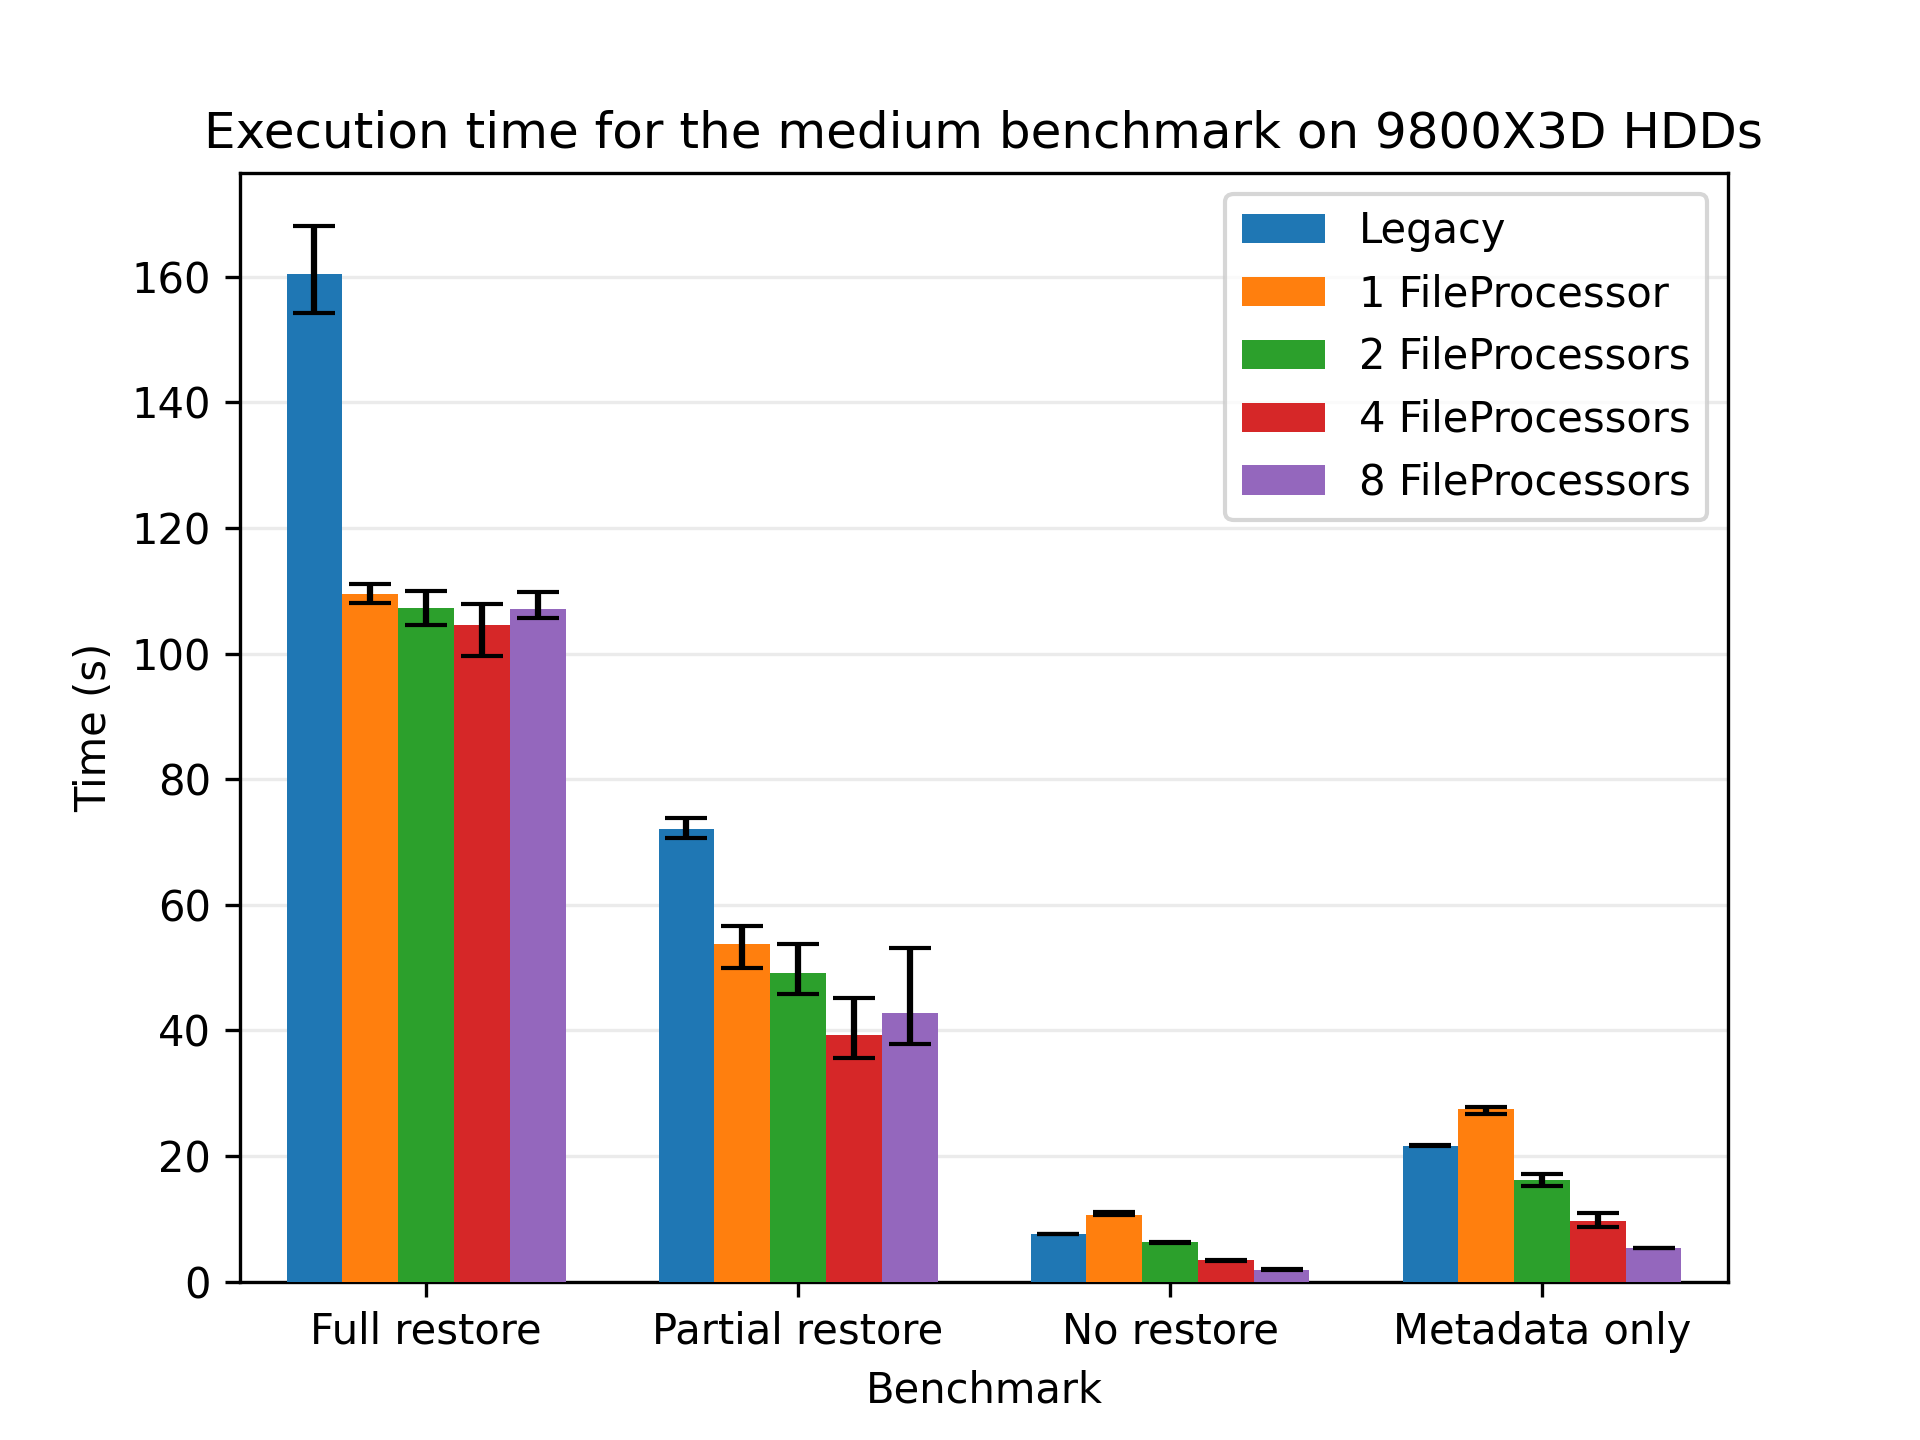
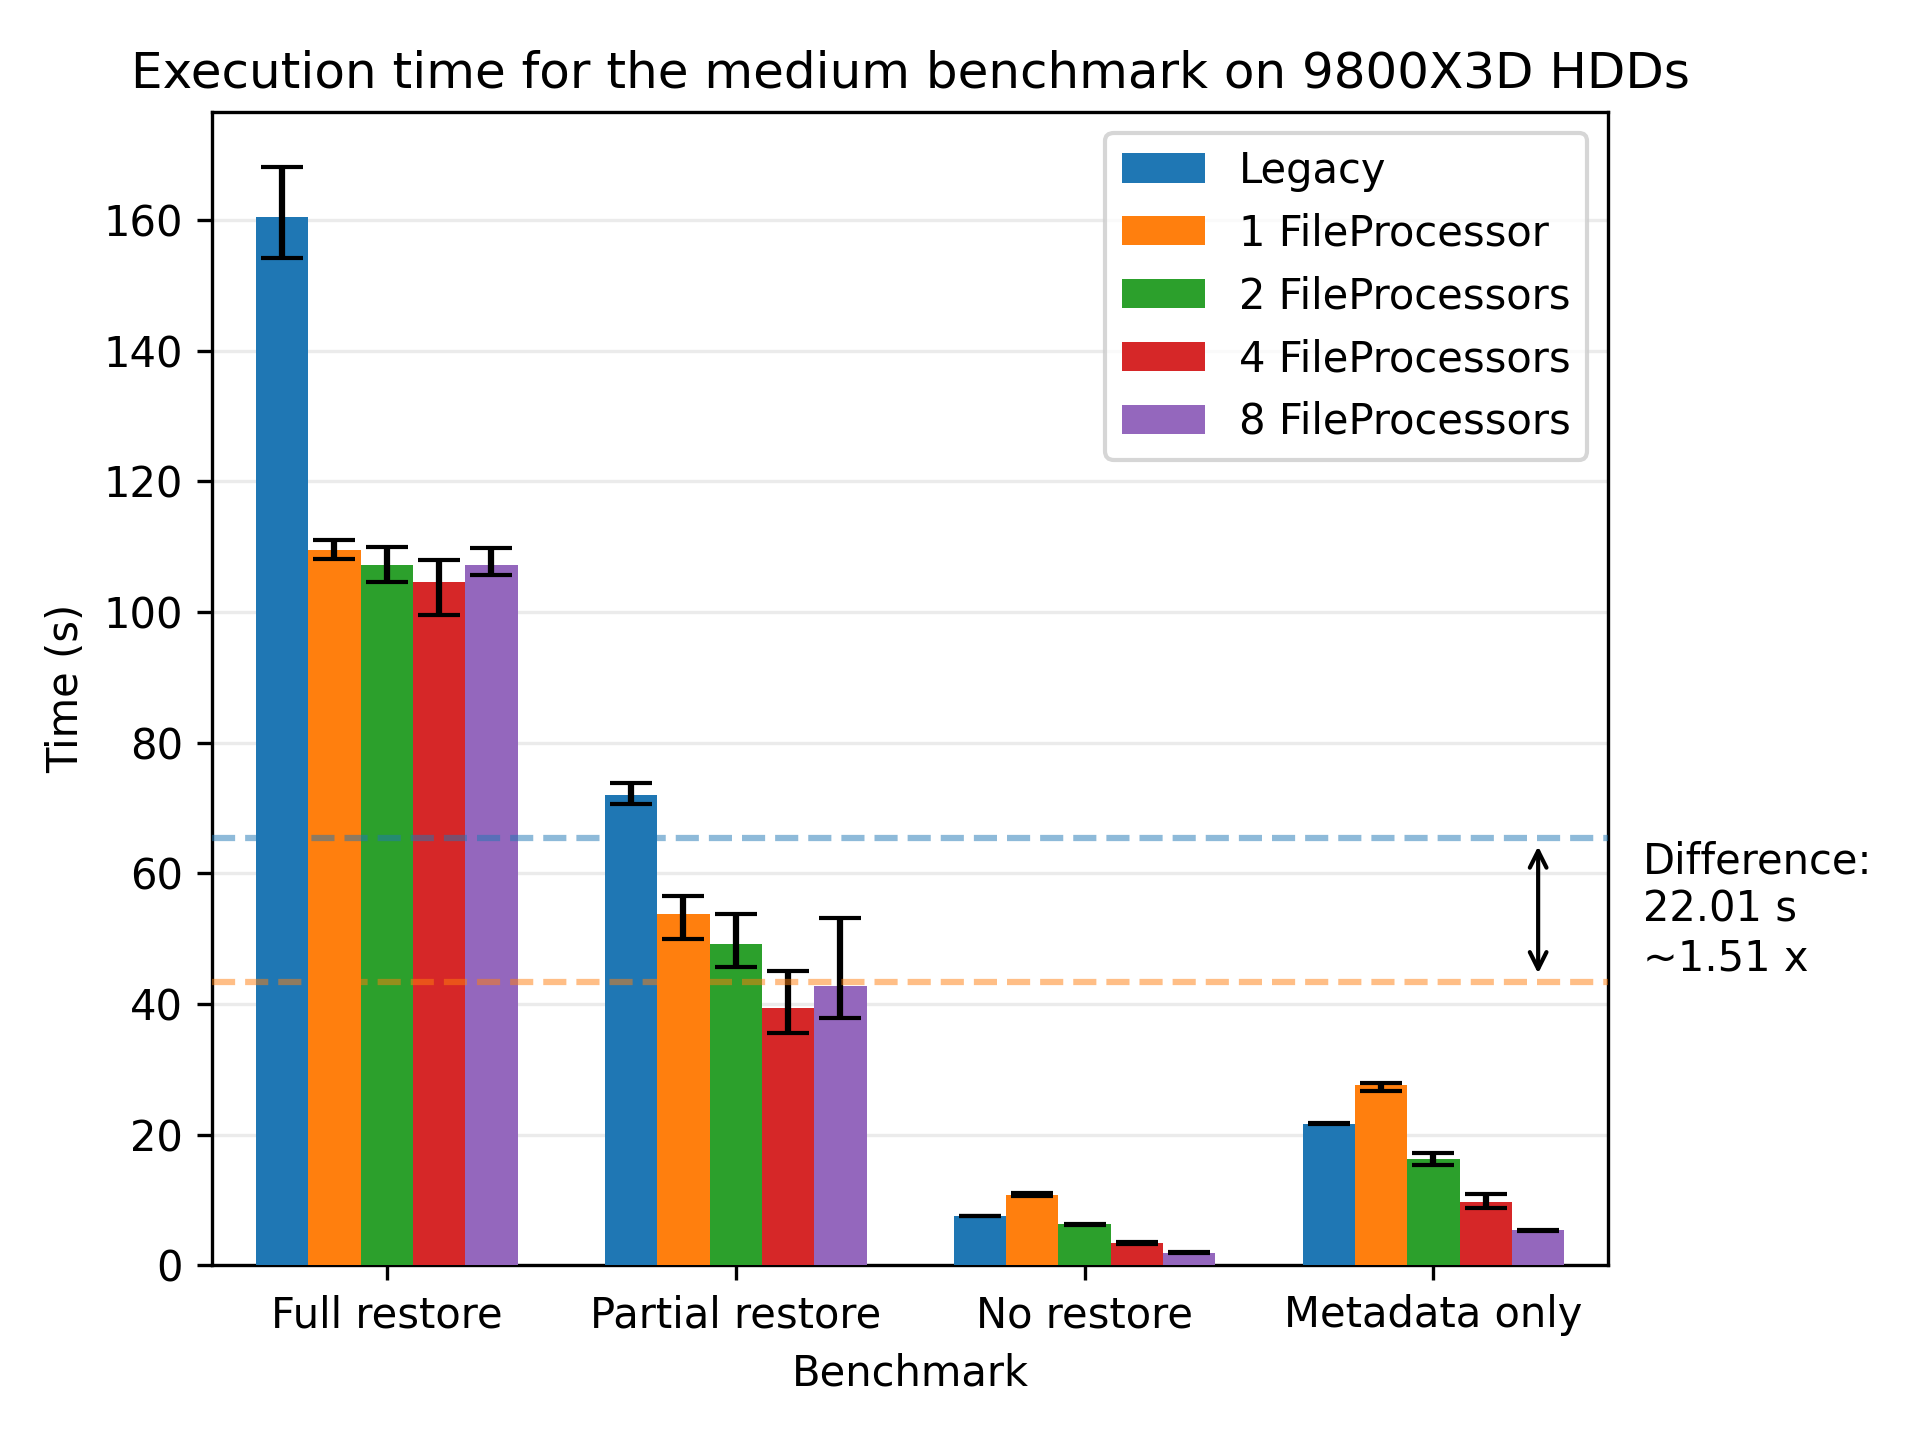
Added difference highlight to the HDD benchmark plot

diff --git a/WIP-restore/restore_opt.md b/WIP-restore/restore_opt.md
@@ -4,9 +4,9 @@ This blog post describes the reworked restore flow.
 
 It was originally merged in [PR #5728](https://github.com/duplicati/duplicati/pull/5728), with bugfixes in [PR #5840](https://github.com/duplicati/duplicati/pull/5840), [PR #5842](https://github.com/duplicati/duplicati/pull/5842), [PR #5886](https://github.com/duplicati/duplicati/pull/5886), [PR #5958](https://github.com/duplicati/duplicati/pull/5958), [PR #6026](https://github.com/duplicati/duplicati/pull/6026), and with additional optimizations in [PR #5983](https://github.com/duplicati/duplicati/pull/5983), [PR #5991](https://github.com/duplicati/duplicati/pull/5991), [PR #6028](https://github.com/duplicati/duplicati/pull/6028).
 
-It has been part of the canary releases since [Duplicati 2.1.0.103](https://github.com/duplicati/duplicati/releases/tag/v2.1.0.103_canary_2024-12-21) onwards, with the latest version being [Duplicati 2.1.0.111](https://github.com/duplicati/duplicati/releases/tag/v2.1.0.111_canary_TODO), which includes all of the bugfixes and optimizations mentioned above.
+It has been part of the canary releases since [Duplicati 2.1.0.103](https://github.com/duplicati/duplicati/releases/tag/v2.1.0.103_canary_2024-12-21) onwards, with the latest version being [Duplicati 2.1.0.111](https://github.com/duplicati/duplicati/releases/tag/v2.1.0.111_canary_2025-03-15), which includes all of the bugfixes and optimizations mentioned above.
 
-The plots generated in this script can be reproduced by running the [benchmark](https://github.com/carljohnsen/duplicati-blogpost/tree/main/WIP-restore/benchmark) and the corresponding [plotting notebook](https://github.com/carljohnsen/duplicati-blogpost/blob/main/WIP-restore/benchmark/plotting.ipynb). TODO update the links post publishing.
+The plots generated in this script can be reproduced by running the [benchmark](https://github.com/carljohnsen/duplicati-blogpost/tree/main/WIP-restore/benchmark) and the corresponding [plotting notebook](https://github.com/carljohnsen/duplicati-blogpost/blob/main/WIP-restore/benchmark/plotting.ipynb).
 
 If any issues arise with the new flow, please report them here on the forum and the legacy flow can still be used instead by supplying the option `--restore-legacy=true`. The legacy flow is also more memory efficient, so if you're running into memory or disk space issues, you can try the legacy flow.
 
@@ -399,13 +399,13 @@ A major benefit is that the post verification step has been removed as it's now 
 
 The whole network shuts down starting at the filelister, once it runs out of files to request.
 Then each fileprocessor shuts down when trying to request a file from the filelister, which is no longer available.
-Once all fileprocessors have shut down, the block cache signals the volume cache to shut down, which in turn shuts downn the volume downloaders, volume decryptors, and volume decompressors.
+Once all fileprocessors have shut down, the block cache signals the volume cache to shut down, which in turn shuts down the volume downloaders, volume decryptors, and volume decompressors.
 Once that subnetwork has shut down, the block cache shuts down, which is the final process to shut down.
 
 This new flow alleviates the problems of the legacy flow, while retaining most of its benefits:
 
 - While the steps are no longer performed in a clearly separated sequence, each step is still separated into a process allowing for a clear separation of concerns.
-- The steps are executed concurrently, allowing for overlapping execution and full utilization of system resources.
+- The steps are executed concurrently, allowing for overlapping execution and better utilization of system resources.
 - The block writes are sequential to a file, leading to a more disk-friendly access pattern per file written.
 - The cache system ensures that each block and volume is only downloaded, decrypted, and decompressed once
   (assuming that cache entries aren't evicted too early due to memory limitations).
@@ -413,9 +413,18 @@ This new flow alleviates the problems of the legacy flow, while retaining most o
 
 It has the following drawbacks:
 
-- The flow is more complex, as it is now a network of processes that communicate through channels. This can, in the worst case, lead to deadlocks where the system is stalled without any progression.
-- The cache system needs to be managed, which can be a complex task, and that entails increased resource consumption.
-- The flow is less stable, as it is a new implementation that hasn't been tested as thoroughly as the legacy flow.
+- The flow is more complex, as it is now a network of processes that communicate through channels. This can, in the worst case, lead to deadlocks where the system is stalled without any progression. Hewever, we have added timeout detection that will warn the user if the system is seemingly stalled. We have also tried to ensure that any error will terminate the network, so the system will not be stuck indefinitely.
+- The cache system needs to be managed, which can be a complex task, and that entails increased resource consumption. However, in our testing, most of the work spent was not managing cache, but actual work; downloading, decrypting, decompressing, and patching blocks.
+- The flow is less stable, as it is a new implementation that hasn't been tested as thoroughly as the legacy flow. Given more time and use, confidence in the new flow will increase.
+
+## Additional optimizations
+
+In addition to the new flow, we've added several optimizations to the restore flow:
+
+- **Preallocation**: The target files can be preallocated, hinting the size to the filesystem. This can benefit the restore speed on some systems, as it hints the size to the filesystem, potentially allowing for more efficient file allocation (e.g. less fragmentation).
+- **Parallel downloads**: The BackendManager now supports parallel downloads, allowing for multiple volumes to be downloaded at the same time. This can increase the throughput of the restore operation, especially on high-speed connections. In the benchmarks of this post, the backend was a local filesystem, so this optimization really sped up the restore operation.
+- **Parallel database connections**: With respect to the backup database, the restore operation is a non-intrusive operation, where the database is only being read from. As such, we can open multiple connections to the database, allowing for faster access to the database.
+- **Memory pool**: The memory pool is a shared memory pool that is used to allocate memory for the blocks. Rather than using a new memory allocation for each block, the memory pool is used to allocate memory for the blocks, which is returned after use. This alleviates garbage collection penalties as a result of many small memory allocations.
 
 ## Tunable parameters
 
@@ -432,6 +441,7 @@ This new flow introduces several tunable parameters to control parallelism, the 
 - `--restore-volume-decompressors=n_cores/2`: The number of volume decompressors to run in parallel. The default is half the number of cores available on the machine.
 - `--restore-volume-decryptors=n_cores/2`: The number of volume decryptors to run in parallel. The default is half the number of cores available on the machine.
 - `--restore-volume-downloaders=n_cores/2`: The number of volume downloaders to run in parallel. The default is half the number of cores available on the machine.
+- `--restore-channel-buffer-size=8`: The size of the channel buffer. The default is 8. This can be increased to allow for more messages to be in flight, potentially increasing the throughput of the restore operation at the cost of increased memory usage.
 
 ### General
 
@@ -451,12 +461,11 @@ We perform the following tests:
 
 Each test will be performed with the new flow and the legacy flow, with 10 measured runs. For each configuration, the best and worst times are discarded and the reported times are plotted with error bars. The benchmarks are (unless specified otherwise) performed on local storage, as we're focusing on the execution of the restore process. For Windows we've disabled Windows Defender real-time protection as this does not go well with a disk-stressing benchmark. We'll be using three datasets:
 
-| Dataset        |      Files |   Size | Max file size | Duplication rate |
-| -------------- | ---------: | -----: | ------------: | ---------------: |
-| Small dataset  |      1,000 |   1 GB |         10 MB |              20% |
-| Medium dataset |     10,000 |  10 GB |        100 MB |              30% |
-| Large dataset  |  1,000,000 | 100 GB |        100 MB |              40% |
-| Huge dataset   | 10,000,000 |  10 TB |          1 GB |              25% |
+| Dataset        |     Files |   Size | Max file size | Duplication rate |
+| -------------- | --------: | -----: | ------------: | ---------------: |
+| Small dataset  |     1,000 |   1 GB |         10 MB |              20% |
+| Medium dataset |    10,000 |  10 GB |        100 MB |              30% |
+| Large dataset  | 1,000,000 | 100 GB |        100 MB |              40% |
 
 'Files' is the target number of files, 'Size' is the target size, and 'Max file size' is the maximum file size a single file can have. Each of these values are targets, which means that they'll be approximate. They will however be deterministic across the runs and machines, as they're using the same seed during generation. Duplication rate is the percentage of blocks that already exist in another file. This is implemented by having the files being filled with 0s.
 
@@ -467,6 +476,12 @@ We'll start by presenting the general results of the new restore flow compared t
 ![Results for the small dataset on MacBook](benchmark/figures/macbook_small.png)
 
 Here we see a significant speedup for the new restore flow compared to the legacy restore flow, yielding a speedup of 2.19x on average. The error bars show the fastest and slowest runs, which are quite close to the average. This indicates that the new restore flow is stable and performs consistently across runs.
+
+If we look at a profiled run of the legacy flow, we see that `3641 + 1541 + 839 = 6021 ms` of the time is spent on restore, metadata and verification in the new restore flow, compared to the total 7408 ms. This means that ~83 percent of the workload is parallelizable. If we apply Armdahl's law:
+
+![Armdahl's law](benchmark/figures/macbook_small_speedup.png)
+
+We see that a speedup of 2.19 correlates with 3 cores being utilized. This is not quite as far as we'd like, but that was assuming that the entire workload was parallelizable. In practice, there are some sequential parts of the workload, such as the network and disk I/O, that are not parallelizable, so this rough estimate of the speedup is seemingly quite good.
 
 Let's look at the results for the medium dataset:
 
@@ -479,7 +494,7 @@ Let's look at the results for the large dataset:
 ![Results for the large dataset on MacBook](benchmark/figures/macbook_large.png)
 
 Where we see a speedup of 1.94x on average.
-And for completeness, we also show the plots for all of the other machines, where the most performant run was the AMD 7975WX on the medium dataset:
+And for completeness, we also show the plots for all of the other machines, where the most performant run was the AMD 7975WX on the medium dataset with a speedup of 8.65x on average:
 
 ![Results for the benchmark on 7975WX](benchmark/figures/threadripper02_all.png)
 
@@ -505,32 +520,36 @@ However, to be sure, we look at the normalized times, where each flow is scaled 
 
 ![Relative results for the sparsity benchmark on MacBook](benchmark/figures/macbook_sparse_normalized.png)
 
-This plot shows that both flows follows the same trend, so we can conclude that the cache system allows for the new flow to benefit from the deduplication rate as well.
+This plot shows that both flows follows the same trend, so we can conclude that the cache system allows for the new flow also leverages the deduplication rate.
 
 ## Effects of multiple FileProcessors on HDDs
 
-The new restore flow focuses on sequential writes to disk, which is beneficial for HDDs, especially compared to the legacy restore flow, which (potentially) scatters the block writes across the disk.
+The new restore flow focuses on sequential writes to disk, which is beneficial for HDDs, especially compared to the legacy restore flow, which scatter the block writes across the disk.
 To see the effect of this, we scale the number of FileProcessors on the 9800X3D, which has two additional 3 TB HDDs. We'll be backing up to one disk and restoring to the other disk.
 We'll be using the medium dataset for this test:
 
-![Results for the HDD benchmark on 9800X3D](benchmark/figures/Carl9800_hdd.png)
+![Results for the HDD benchmark on 9800X3D](benchmark/figures/hdd_medium.png)
 
-Here we see that the new restore flow is faster than the legacy restore flow, with a speedup of TODOx on average.
-The disk reaches saturation at around TODO FileProcessors, where the latency of the disk results in diminishing returns.
+Here we see that the new restore flow is faster than the legacy restore flow, with a speedup of TODOx on average even though both flows are able to keep the target disk at almost 100% utilization.
+This means that the added parallelism of the new restore flow is neglible as both are limited by the disk speed.
+We do still have some gain in performance, which is due to the on-the-fly verification of files, which saves us an entire pass over the data.
 
-## Huge dataset
+There is still some merit in running multiple FileProcessors, as the new restore flow reaches the saturation point at 4 FileProcessors.
+The disk reaches saturation at around 4 FileProcessors, where the latency of the disk results in diminishing returns.
+The benefits become more pronounced as the load to disk decreases, which we can see in the "no restore" benchmark.
 
-As a final test, we'll try to restore a large dataset, consisting of 10 TiB of data.
-This large dataset is performed on the 1950X, which has two Raid 5 arrays of 8 x 12 TB HDDs, for a total of 16 drives.
-We'll be backing up to one of the arrays and restoring to the other array.
-This shows that even though we are limited by slow write speeds, the new restore flow is still faster than the legacy restore flow:
+## Preallocation on HDDs
 
-![Results for the huge dataset on 1950X](benchmark/figures/threadripper00_huge.png)
+Preallocation hints the size of the target files to the filesystem, potentially allowing for more efficient file allocation (e.g. less fragmentation).
+This should be especially beneficial for HDDs, as they are prone to fragmentation.
+To see the effect of this, we'll be running the medium dataset on the 9800X3D with and without preallocation:
 
-The new restore flow is TODOx faster than the legacy restore flow on average, showing that the new restore flow is able to utilize the system resources more efficiently than the legacy restore flow.
-This results in an absolute reduction of TODO hours for the huge dataset, which is a significant improvement.
+![Results for the preallocation benchmark on 9800X3D](benchmark/figures/hdd_medium_pre.png)
 
-As additional info, the data took TODO hours to generate and TODO hours to backup.
+Here we see a slight speedup for 8 FileProcessors, which doesn't really confirm the hypothesis, as the speedup is within the margin of error.
+However, the preallocation does hint the size of the files to the filesystem, which can be beneficial for the long-term health of the filesystem.
+Furthermoree, this effect is likely due to the fact that the target disk is quite new and unused, so fragmentation is not as big of an issue as it would be on a disk that has been used for a while.
+Regardless, providing the hint doesn't hurt the performance, so enabling it for HDD based systems is recommended.
 
 # Future work
 
